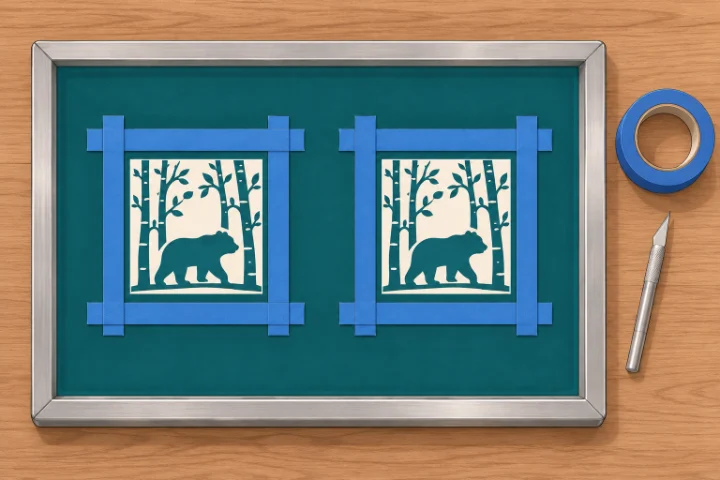
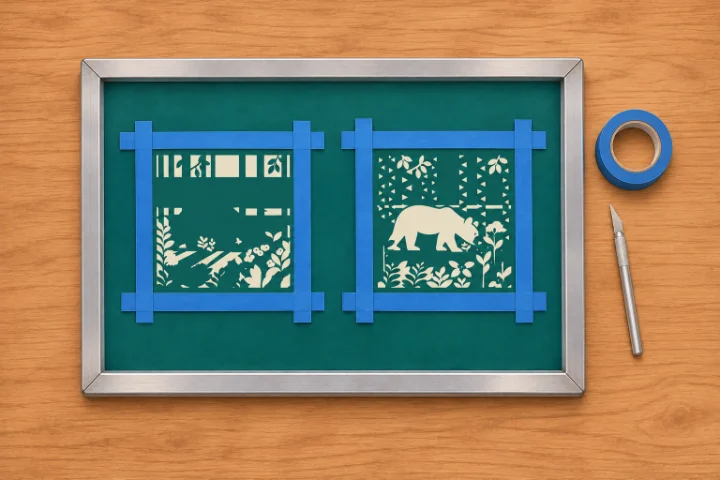
Faunaform: the masking picture shows two colors on one screen, not two copies of one bear
The manual rail's third tile drew two identical bear stencils side by
side. A screen here carries two different color layers, each in its own
tape frame: Screen A the light and the sun, Screen B the sky and the
deep, as the manual's Steps 3 and 4 say. The tile is redrawn as Screen
B, in the same ChatGPT chat as the first: the sky layer on the left
(bars across the top, plants along the bottom, no bear) and the deep on
the right (the bear, the birch triangles and the foliage), each drawn
from its real separation as open mesh in the teal emulsion. The line
under it now says so: "two of the four colors share one screen, each in
its own tape frame".

Still 720 x 480 WebP at 0.86, so width and height stay; the
cache-buster goes to ?v=3. The master, the first take, the reference
and both prompts are in the studio repo under
designs/setup/case-study/ (the twins picture kept as mask-twins.png).

diff --git a/case-study/faunaform.html b/case-study/faunaform.html
@@ -623,8 +623,12 @@
              the masters and their chats): 01 from layout.png, 02 from
              board.png panel 4, 03 from mask.png panel 2, the version after
              both fixes (mask-take1.png left the label dashes open), 04 from
-             faults.png. Each was checked against its manual page for the
-             mechanics, and every print and stencil is square, 6 x 6 in on
+             faults.png. 03 was redrawn the same day: it first showed two
+             copies of one bear, and a screen carries two different colors.
+             It is Screen B, the sky layer left and the deep right, drawn
+             from output/six/screens/bear-sky.jpg and bear-deep.jpg as open
+             mesh in the emulsion (case-study/mask-twins.png is the first).
+             Each was checked against its manual page for the mechanics, and every print and stencil is square, 6 x 6 in on
              an 8 x 8 in sheet like the real ones (01 and 02 were first
              drawn wide and redrawn before merging). Scenes rail, so alt=""
              and the words are the page's own. -->
@@ -634,7 +638,7 @@
             <ol class="writing-rail-steps">
               <li><img src="../img/faunaform/manual-layout.webp?v=2" width="720" height="480" alt="" loading="lazy" decoding="async" /><span class="writing-rail-num" aria-hidden="true">01</span><strong>Set up the room</strong><span>mix, print, dry, and wash, in that order</span></li>
               <li><img src="../img/faunaform/manual-board.webp?v=2" width="720" height="480" alt="" loading="lazy" decoding="async" /><span class="writing-rail-num" aria-hidden="true">02</span><strong>Build the press</strong><span>hinges let the screen lift and drop back in the same spot</span></li>
-              <li><img src="../img/faunaform/manual-mask.webp?v=2" width="720" height="480" alt="" loading="lazy" decoding="async" /><span class="writing-rail-num" aria-hidden="true">03</span><strong>Tape off the screen</strong><span>tape blocks the ink everywhere but the two bears</span></li>
+              <li><img src="../img/faunaform/manual-mask.webp?v=3" width="720" height="480" alt="" loading="lazy" decoding="async" /><span class="writing-rail-num" aria-hidden="true">03</span><strong>Tape off the screen</strong><span>two of the four colors share one screen, each in its own tape frame</span></li>
               <li><img src="../img/faunaform/manual-faults.webp?v=2" width="720" height="480" alt="" loading="lazy" decoding="async" /><span class="writing-rail-num" aria-hidden="true">04</span><strong>Spot a bad print</strong><span>eight ways a print fails, from blurry edges to colors out of line</span></li>
             </ol>
           </figure>
